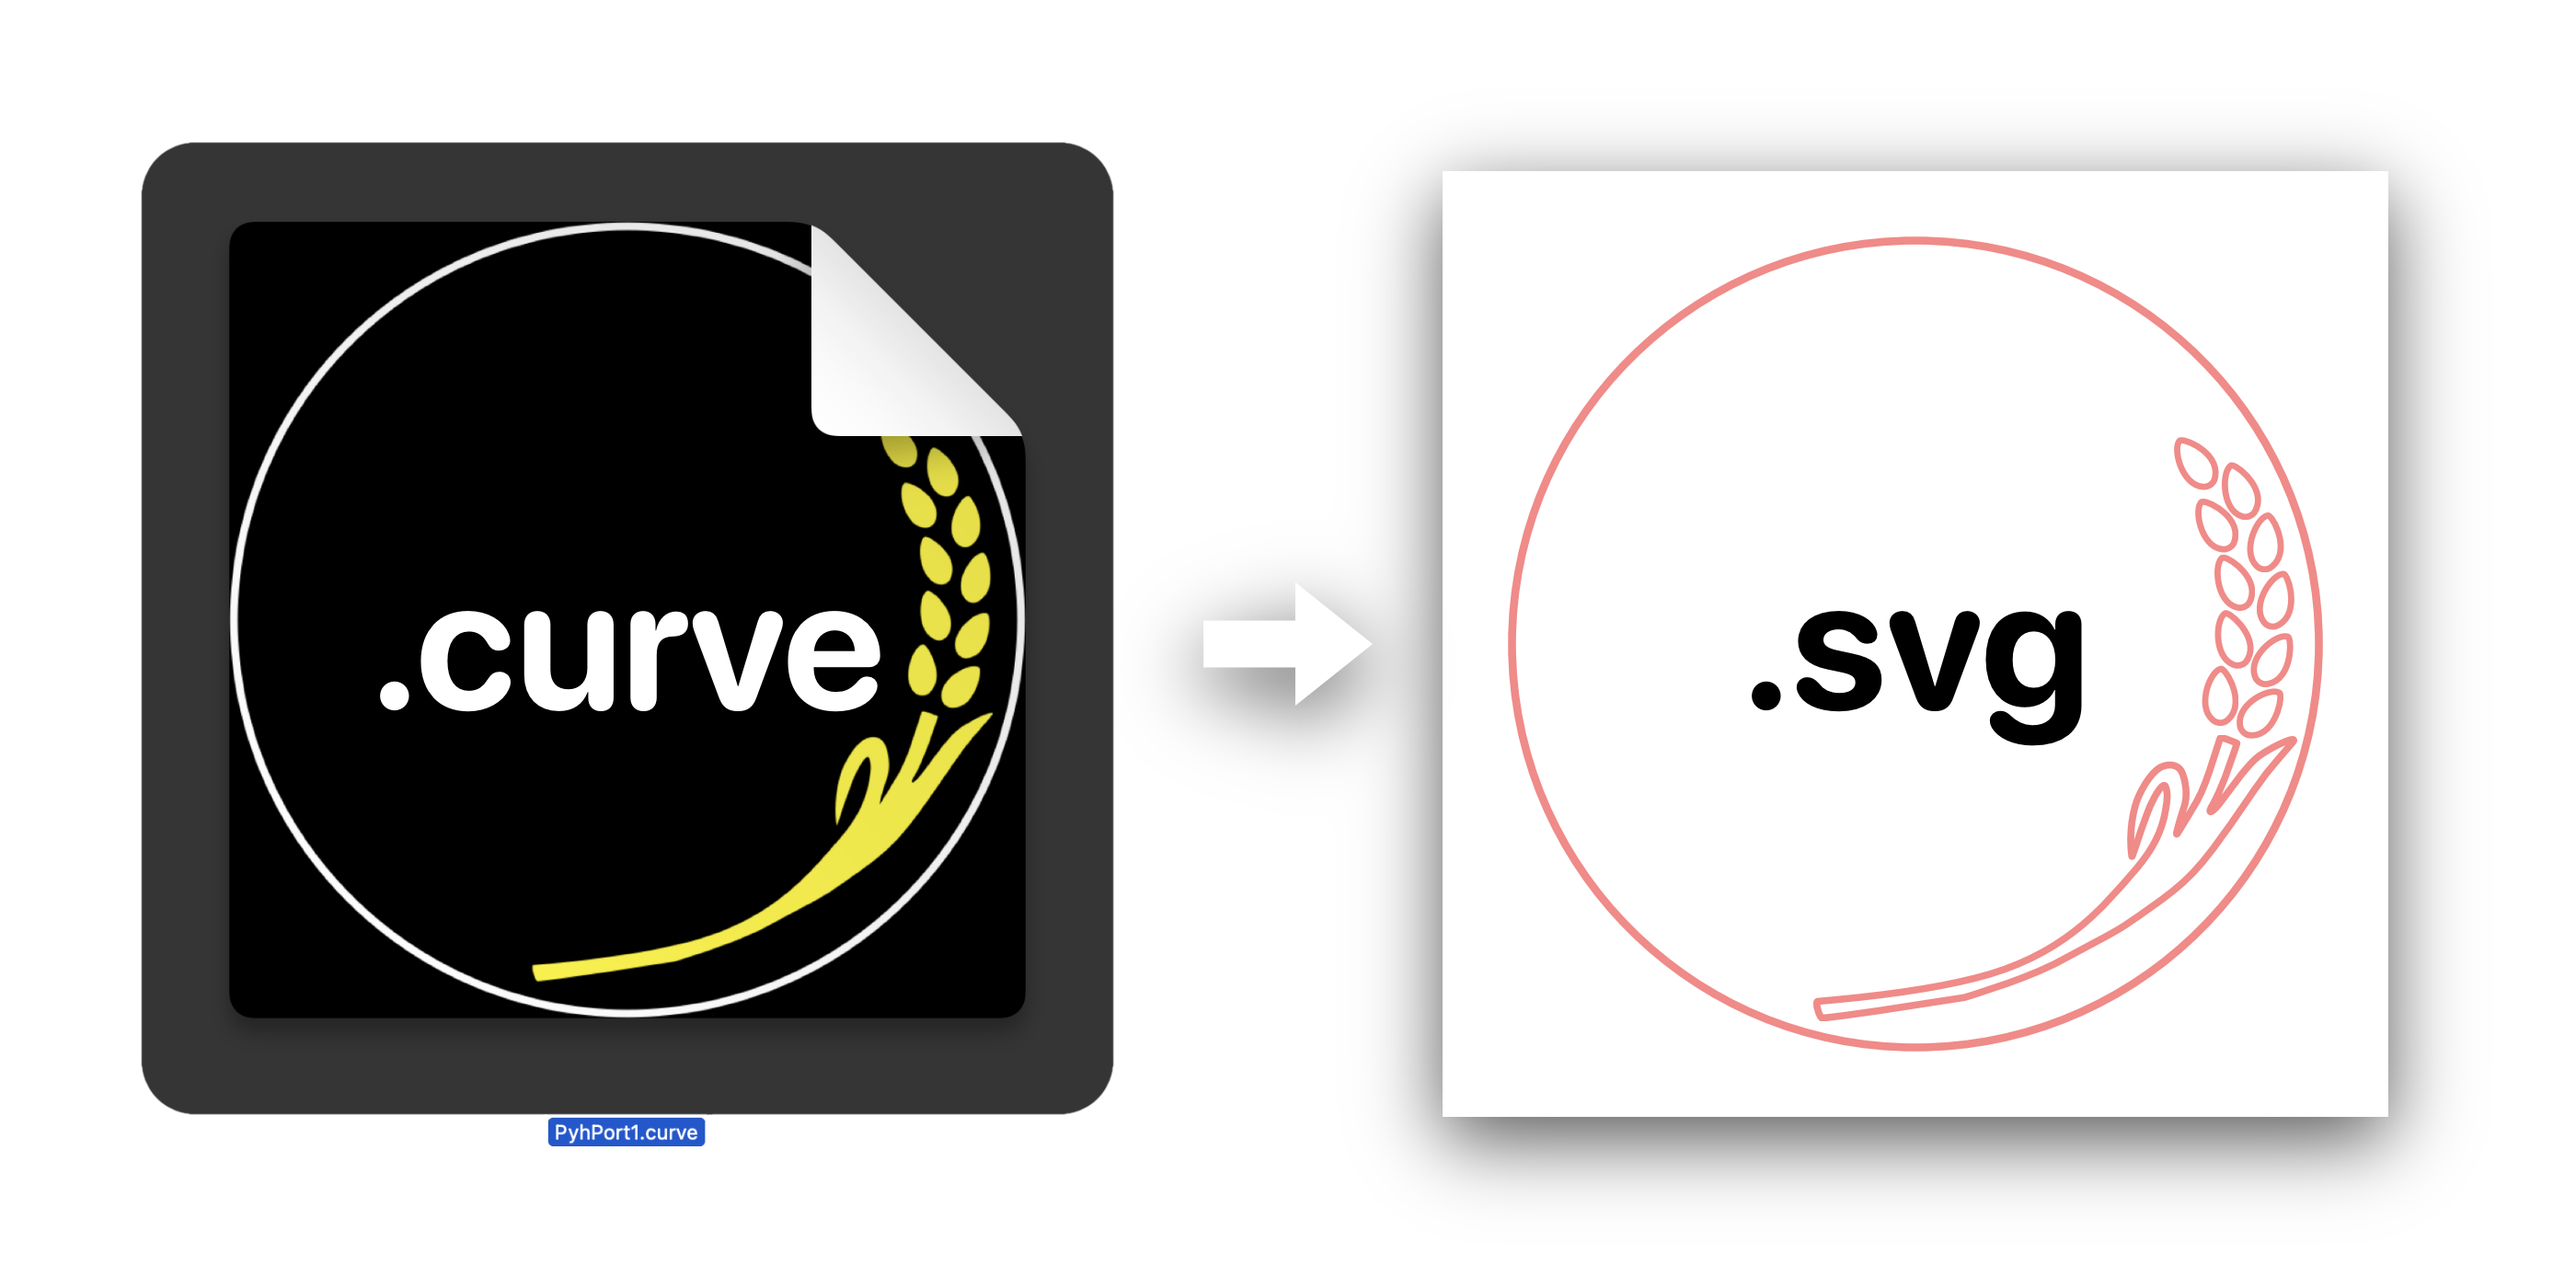
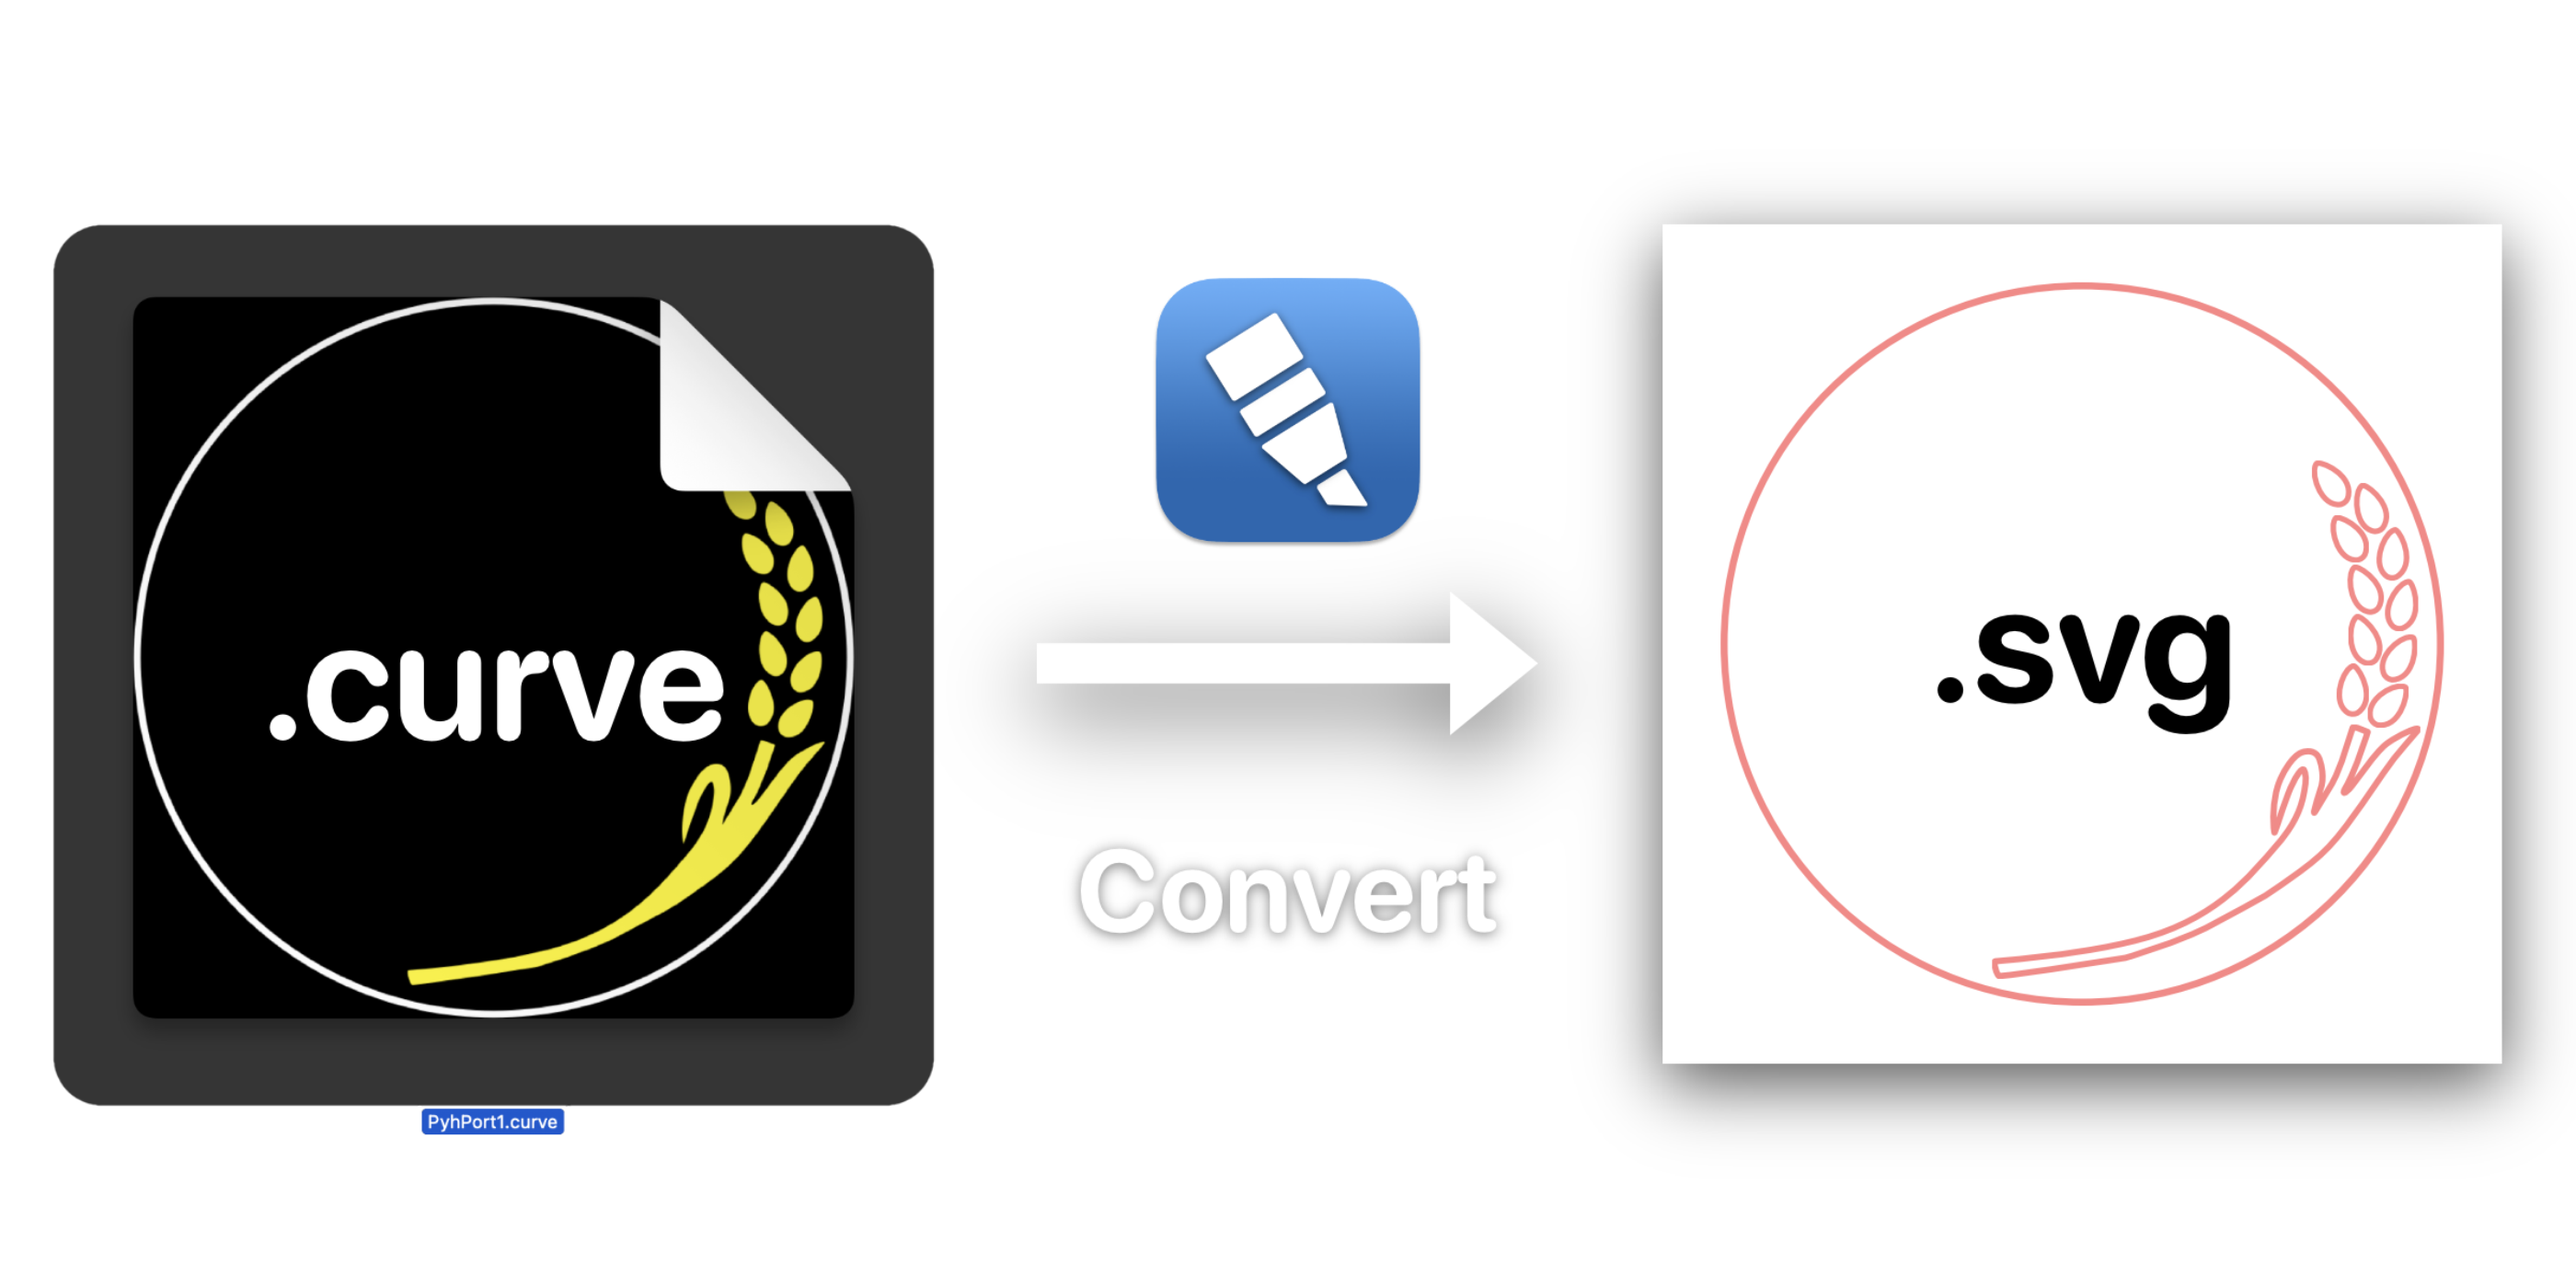
Updated example.png

diff --git a/README.md b/README.md
@@ -1,5 +1,5 @@
 # Vectornator Inspection
-<img src="icon.png" width="128" />
+
 ![](example.png)
 
 ## About
